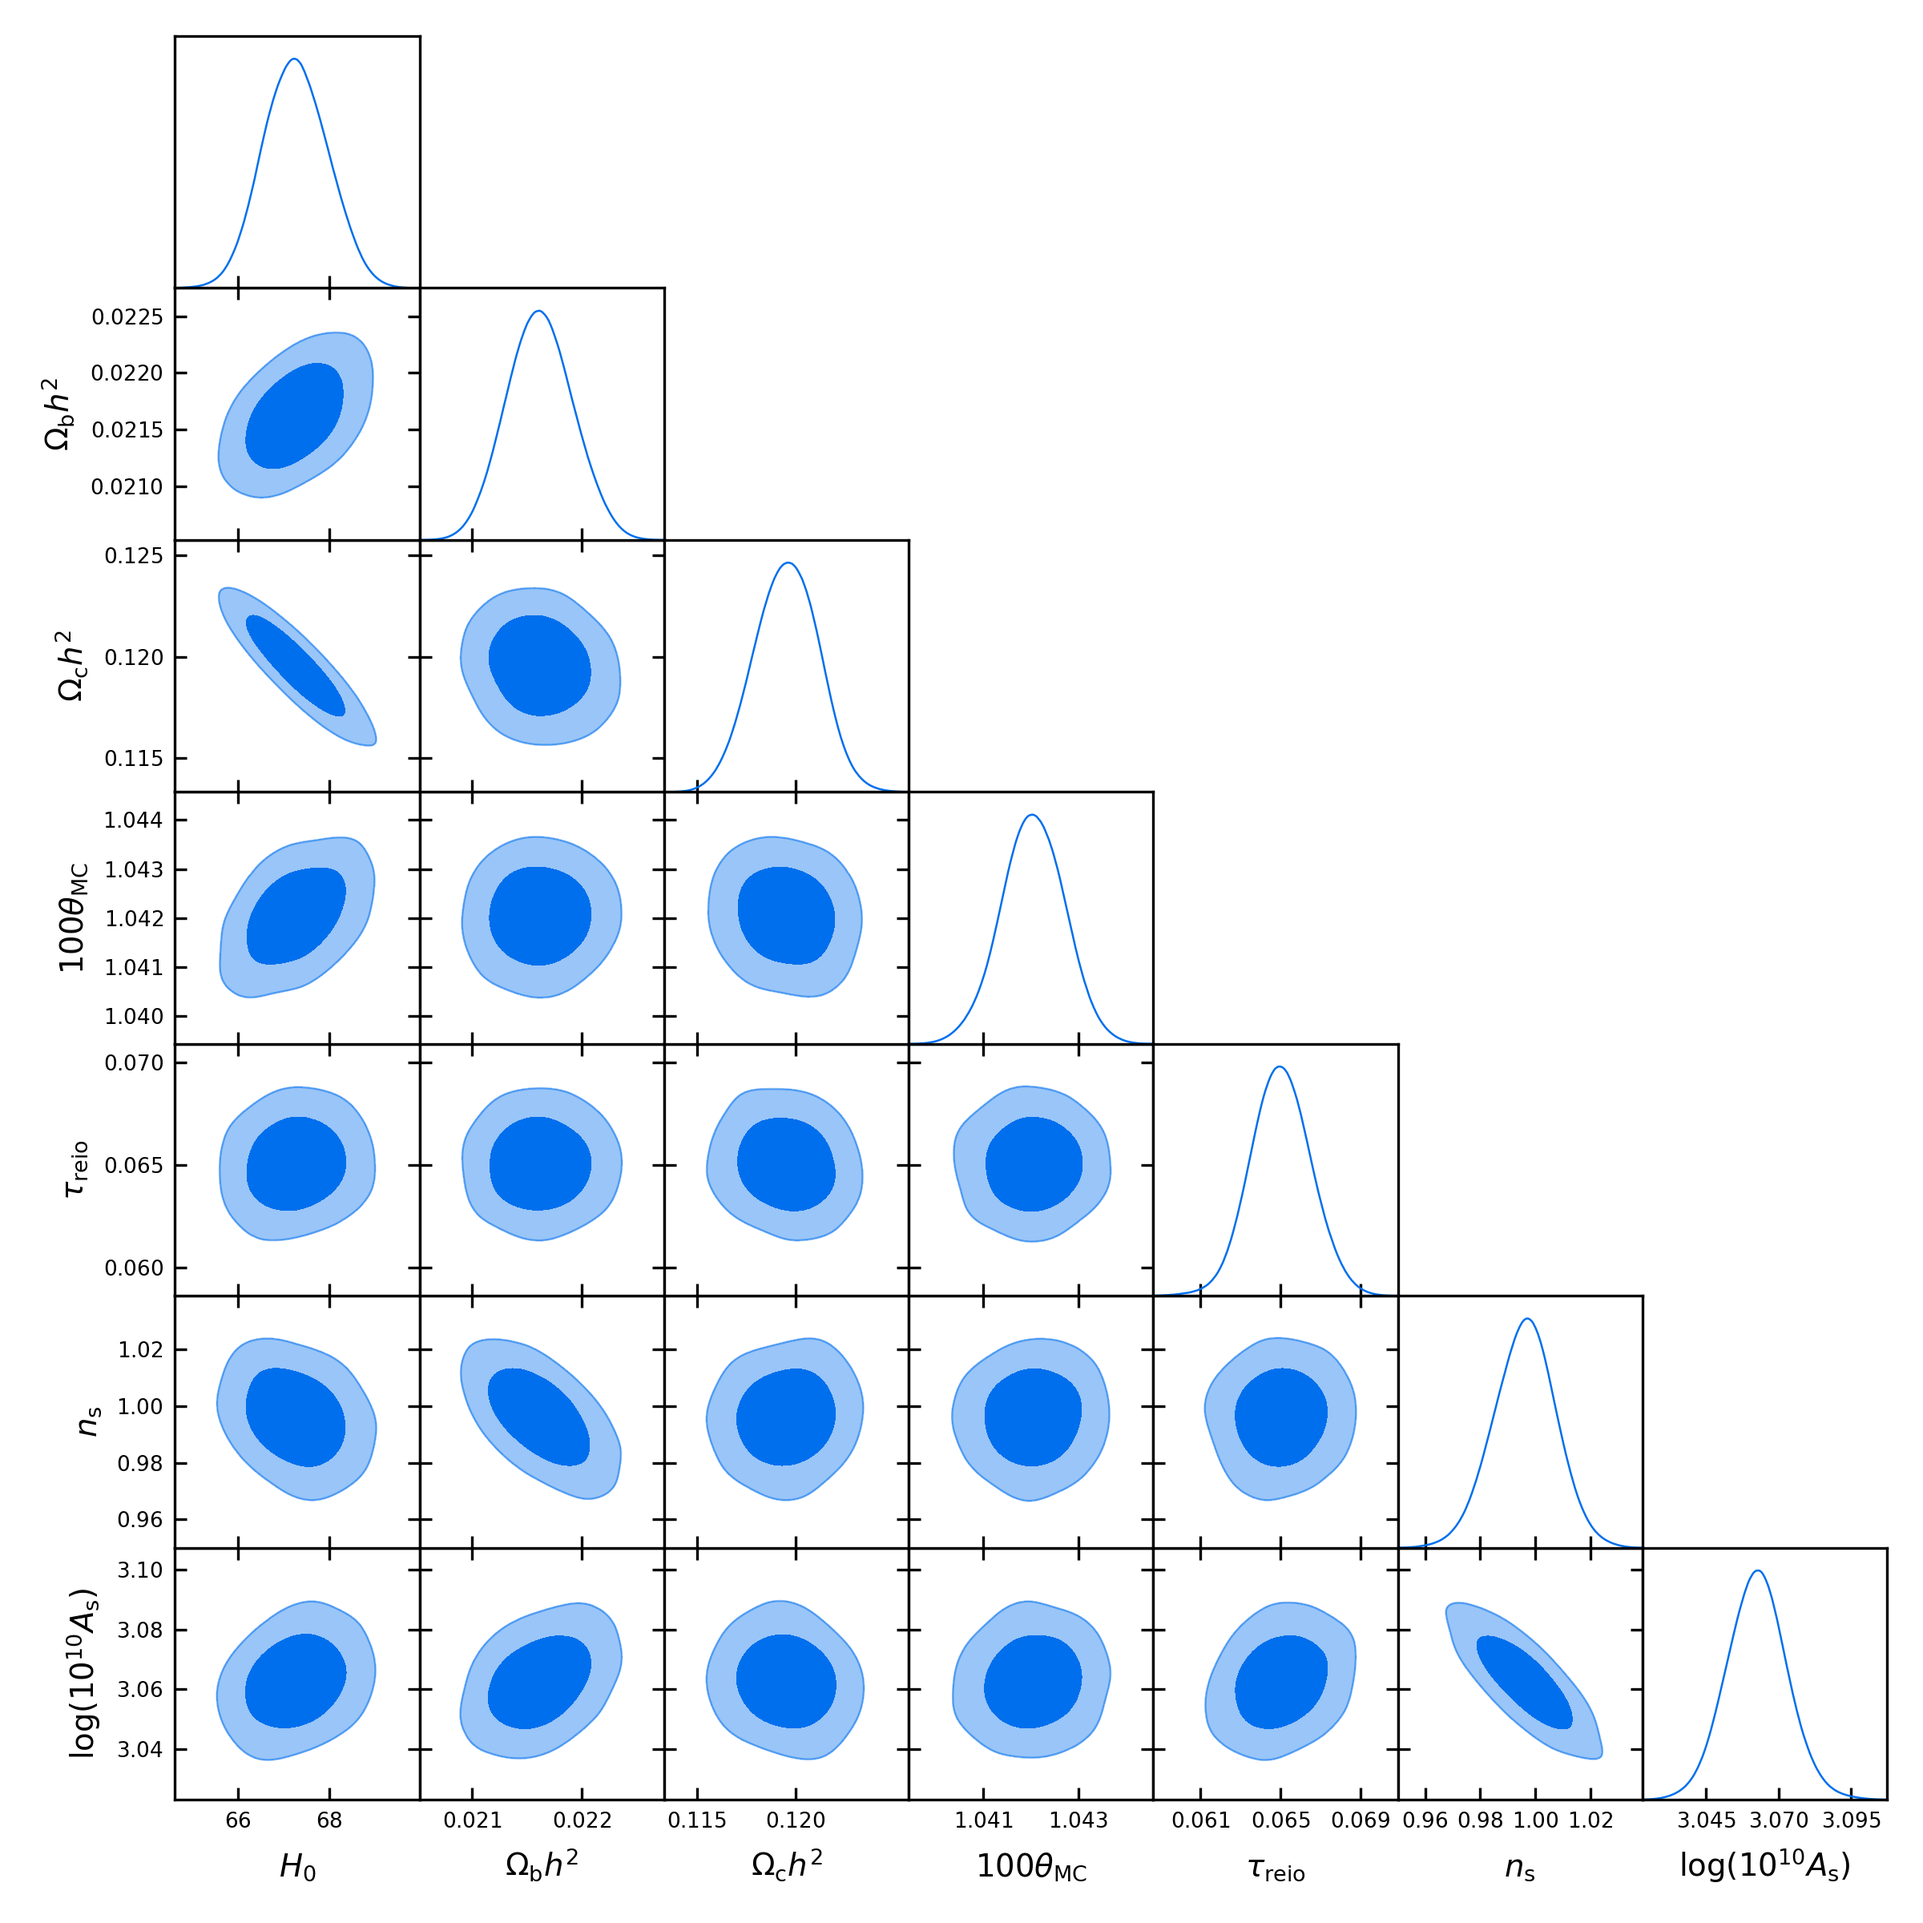
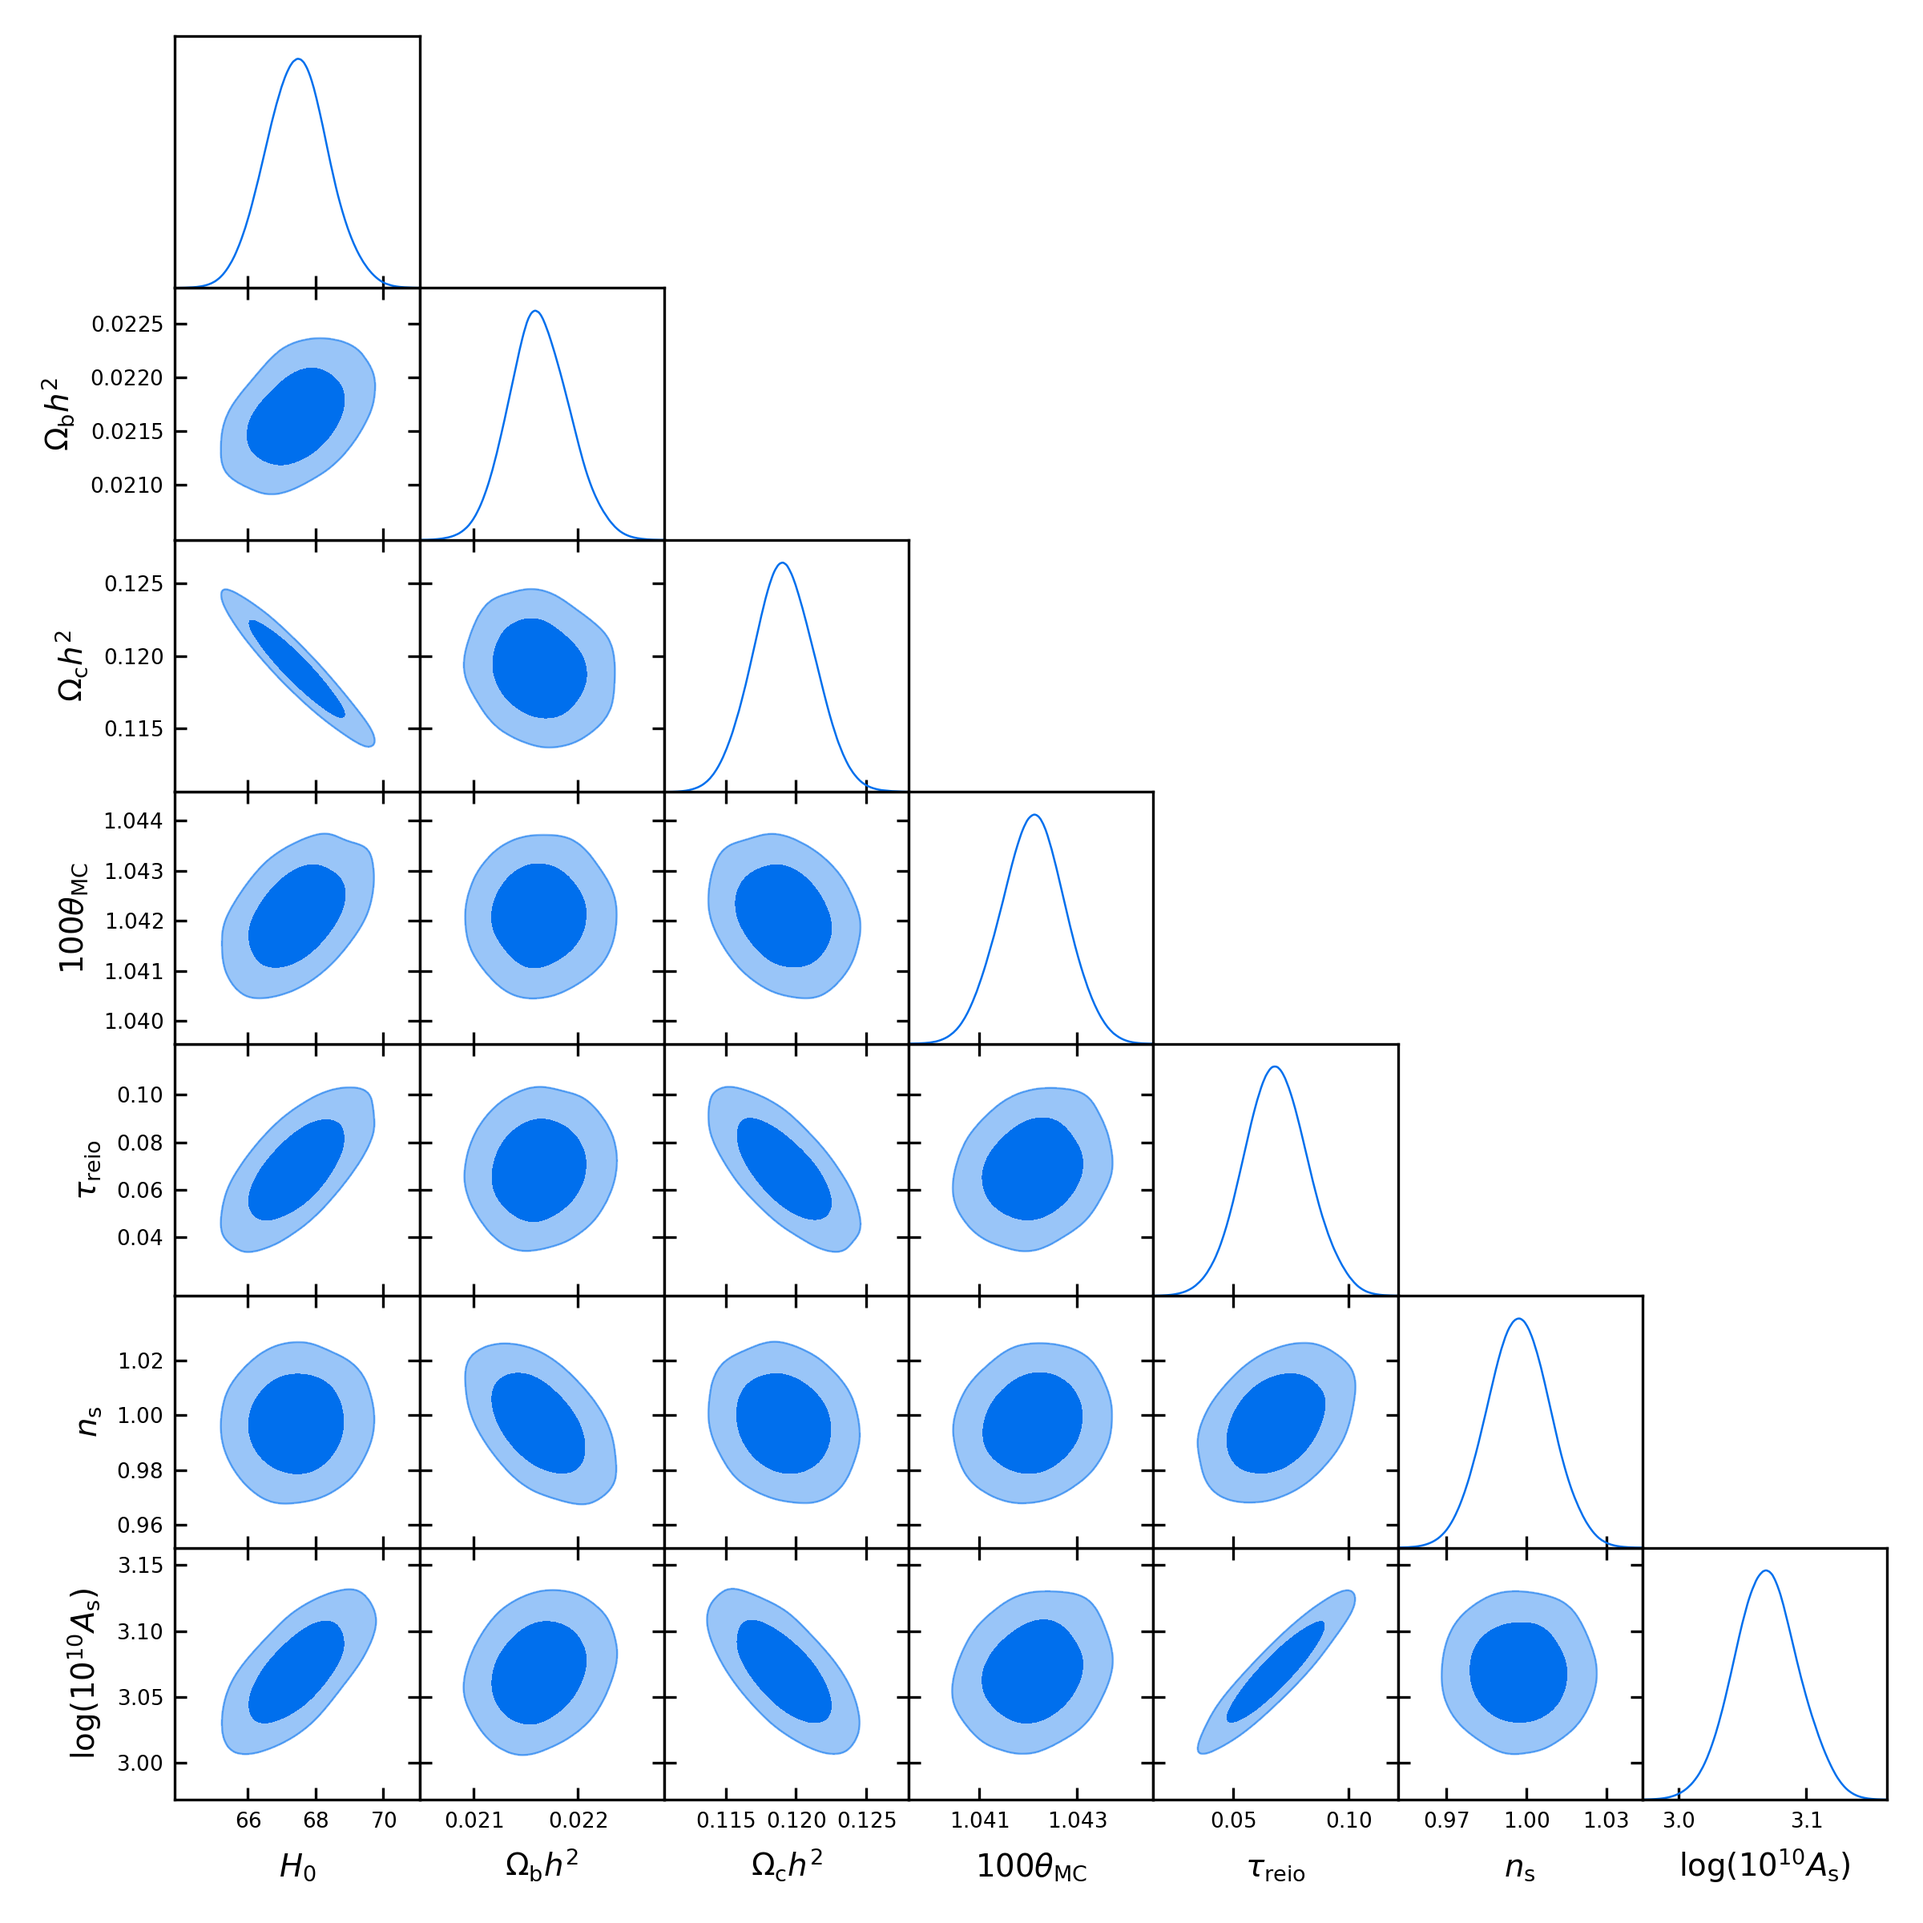
completed analysis for act with tau prior and checked consistency with data

diff --git a/analysis.py b/analysis.py
@@ -8,7 +8,7 @@ from getdist import plots
 # specify chain file root
 # chain_root = "./spt-tau-chains/lcdm_comp"
 # chain_root = "./act-tau-chains/lcdm"
-chain_root = "./act-desi-pantheon-chains/w0wa"
+chain_root = "./act-wmap-chains/lcdm"
 
 # directory and base name
 chain_dir = os.path.dirname(chain_root)
@@ -38,10 +38,10 @@ samples = getdist.loadMCSamples(chain_root, settings={"ignore_rows": 0.3})
 # params = ["H0", "ombh2", "omch2", "theta_MC_100", "Ase2tau", "ns"]
 
 # act_tau
-# params = ["H0", "ombh2", "omch2", "theta_MC_100", "tau", "ns", "logA"]
+params = ["H0", "ombh2", "omch2", "theta_MC_100", "tau", "ns", "logA"]
 
 # act desi pantheon for w0waCDM model
-params = ["omch2", "ombh2", "theta_MC_100", "tau", "ns", "logA", "w", "wa"]
+# params = ["omch2", "ombh2", "theta_MC_100", "tau", "ns", "logA", "w", "wa"]
 # printing R-1 value
 print("R-1 =", samples.getGelmanRubin())
 

diff --git a/act-tau-chains/content.md b/act-tau-chains/content.md
@@ -1,4 +1,4 @@
 # act-tau-chains directory contents
 
 - lcdm: chains with ACTPol Dr4 and ACT DR6 polarisation likelihoods for comparison with [paper table 4 p21](https://arxiv.org/pdf/2007.07288)
-    - gaussian $\tau$ prior of $0.065\pm0.0015$
+    - gaussian $\tau$ prior of $0.065\pm0.015$
